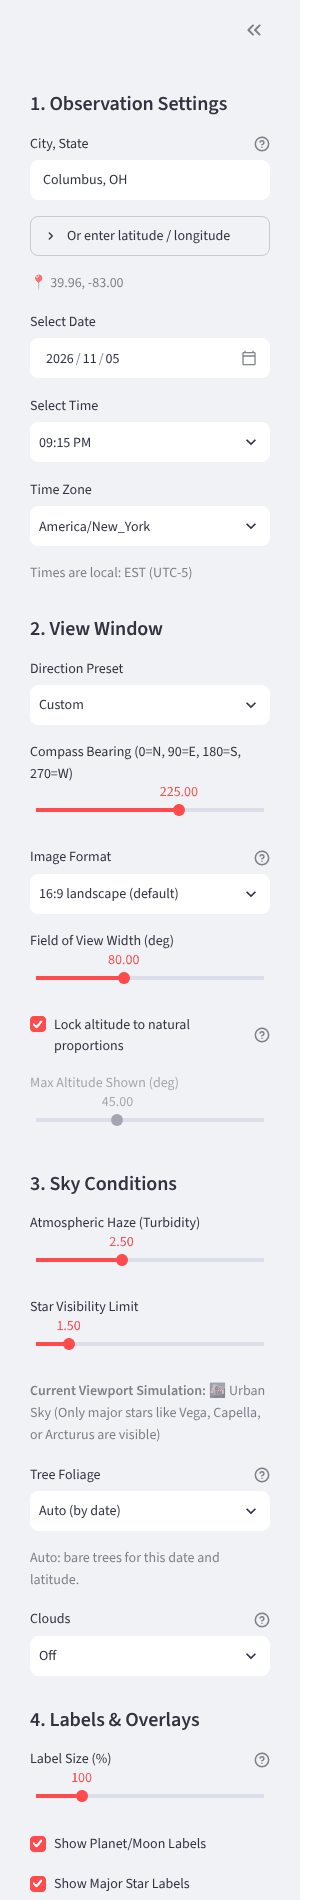
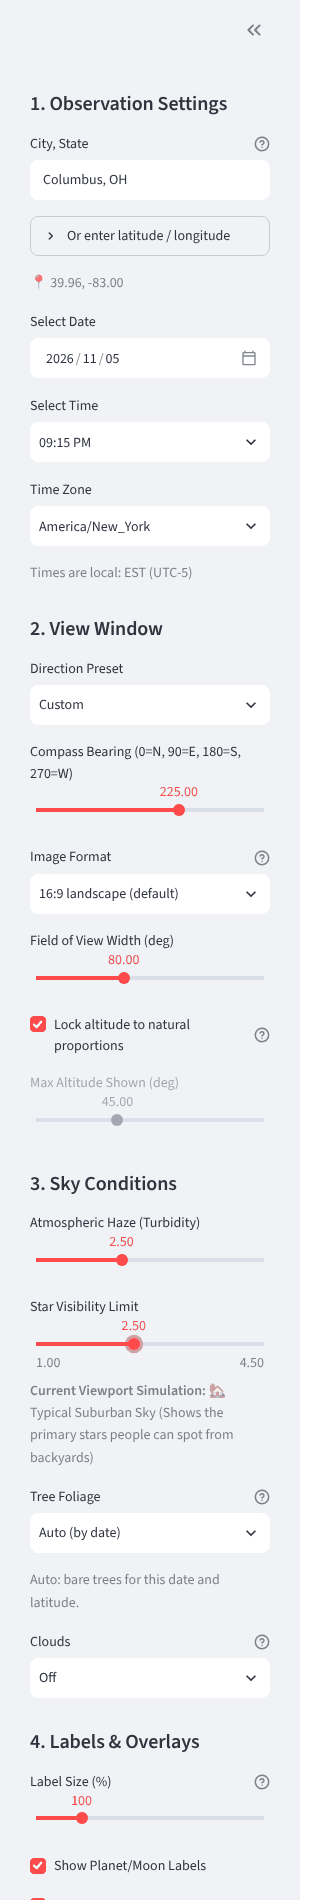
Astrographics screenshots: suburban horizon instead of urban
Retaken with the Star Visibility Limit at 2.5 (typical suburban sky), which
selects the suburban horizon scene. The write-up now explains how the
horizon follows that setting.

Claude-Session: https://claude.ai/code/session_016pS5E4S9xH4jjAaWseSpug

diff --git a/content/app-astrographics.md b/content/app-astrographics.md
@@ -8,14 +8,14 @@
 Astrographics draws the night sky for any place and time: stars, constellations, planets and the Moon, in front of a silhouette of the horizon. You set where, when and which way to look, and it returns a clean, transparent-friendly image to bring into Max or post to social media.
 
 ![Astrographics after clicking Generate: the controls on the left, the finished sky graphic on the right](images/astrographics-app.png)
-*The app after a first run: Columbus at 9:15 PM, looking southwest, with the skyline as the horizon.*
+*The app after a first run: Columbus at 9:15 PM, looking southwest, with a suburban horizon.*
 
 ### What it can do
 
 - **Any place.** Type a city and state, or enter a latitude and longitude. The time zone and the local time follow.
 - **Any date and time.** The sky is computed for the moment you pick, including the planets, the Moon and its phase. Refraction near the horizon is included.
 - **Which way to look.** Pick North, Northeast and so on, or set an exact compass bearing. The field of view (30 to 180 degrees) and the maximum altitude shown are adjustable.
-- **A horizon that fits the place.** Urban, suburban and rural horizon silhouettes are included. Tree foliage can follow the season automatically, or be set to leaves or bare.
+- **A horizon that fits the place.** Urban, suburban and rural horizon silhouettes are included, and the horizon follows the **Star Visibility Limit** setting: 1.5 or lower shows the urban skyline, 2.0 to 3.0 a suburban neighborhood, and anything darker the rural country horizon. Tree foliage can follow the season automatically, or be set to leaves or bare.
 - **Sky conditions.** Atmospheric haze and a star visibility limit are suggested from your location (a city sky shows fewer stars than a rural one). Both stay adjustable.
 - **Clouds.** Off by default so astronomy graphics stay clear. In Forecast mode it draws the low, mid and high cloud cover from a forecast model (best match, HRRR, GFS or ECMWF) and lets you nudge each layer; Manual lets you set the percentages yourself.
 - **Labels and overlays.** Turn planet and Moon labels, major and minor star names, constellation lines and names, asterisms, altitude gridlines and compass lines on or off, and scale the label size from 50 to 300 percent.
@@ -28,16 +28,16 @@ Astrographics draws the night sky for any place and time: stars, constellations,
 1. Open the app (button at the top of this tab).
 2. Under **1. Observation Settings**, enter the city or coordinates, then the date, time and time zone.
 3. Under **2. View Window**, choose a direction and an image format. Adjust the field of view if you want more or less sky.
-4. Under **3. Sky Conditions**, check the haze and star settings, the tree foliage, and whether you want clouds.
+4. Under **3. Sky Conditions**, check the haze and star settings, the tree foliage, and whether you want clouds. The app starts the star setting from your location (a big city starts at the urban skyline); set the **Star Visibility Limit** to 2.5 for a typical suburban horizon, as in the pictures here.
 5. Under **4. Labels & Overlays**, choose what to label.
 6. Click **Generate Sky Graphic**. It takes a few seconds.
 7. Click **Download High-Res PNG for Editing / On-Air** to save the image, then bring it into Max.
 
 ![The vertical 9:16 format, facing south, with constellation names and altitude gridlines](images/astrographics-vertical.png)
-*The vertical format, facing south from Columbus, with constellation names and altitude lines on. Saturn is labeled at the left edge.*
+*The vertical format with a suburban horizon, facing south from Columbus, with constellation names and altitude lines on. Saturn is labeled at the left edge.*
 
 ![The 16:9 format facing south with constellation names, altitude gridlines and compass lines](images/astrographics-south.png)
-*The 16:9 format with constellation names, altitude gridlines and compass direction lines.*
+*The 16:9 format with a suburban horizon, constellation names, altitude gridlines and compass direction lines.*
 
 ### Good to know
 
